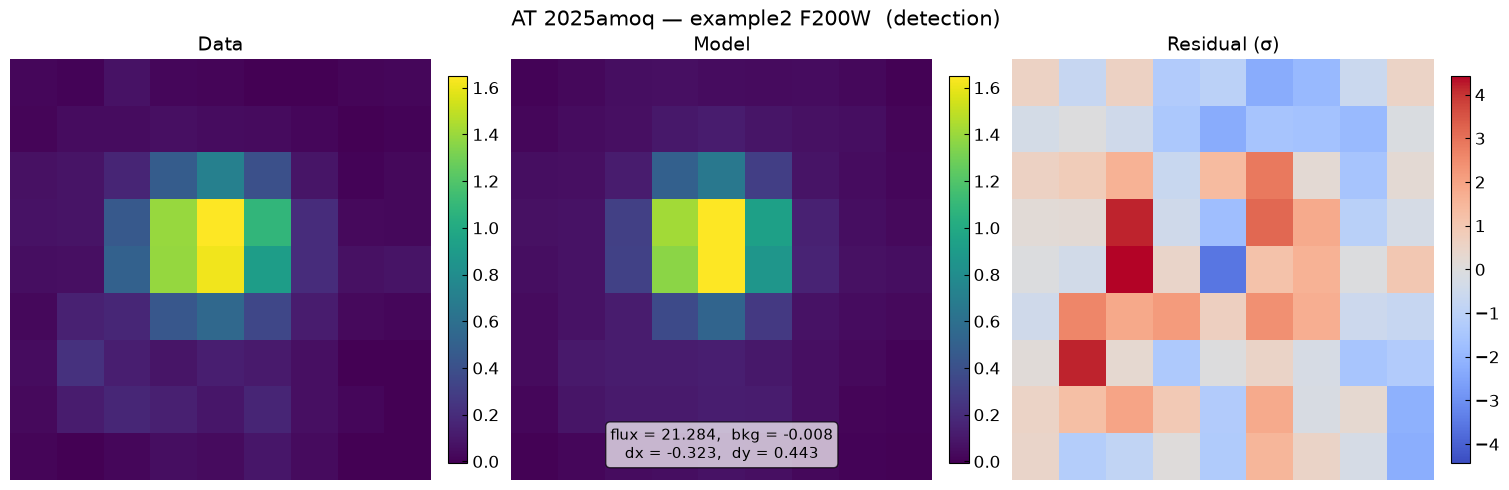
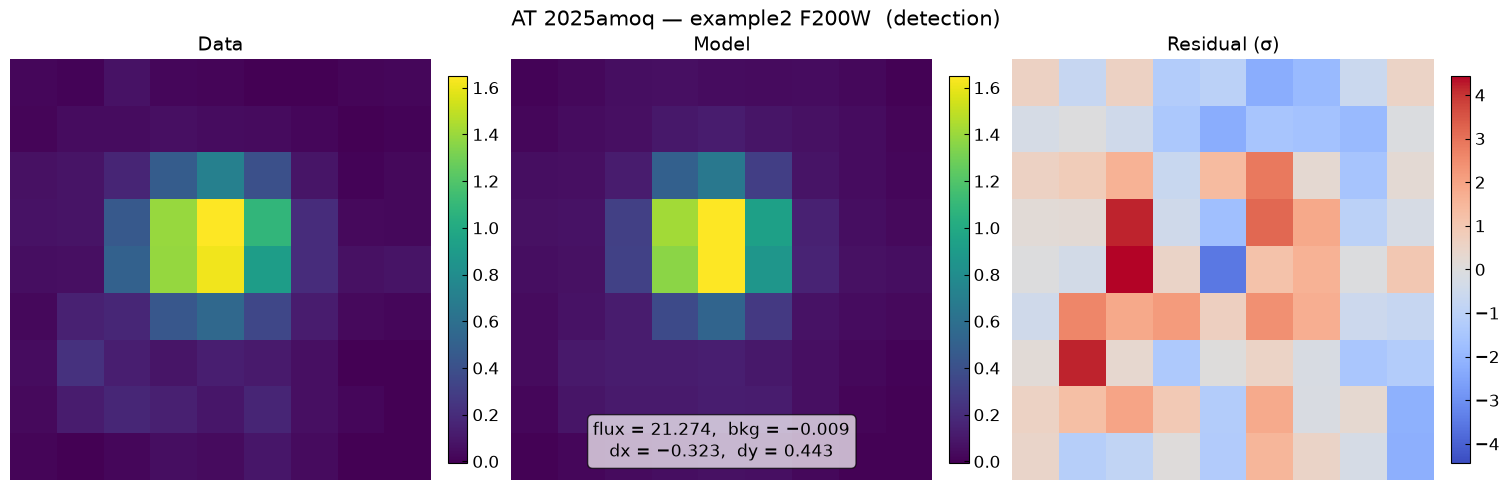
Regenerate the README triptych and upper-limit figures
Re-extract both from the freshly run notebook so they show the enlarged
annotation font, the mathtext minus signs, and the max(median,0) + 3sigma
label. The percentile and Gaussian-equivalent limits differ by ~6% in this
run, so the caption no longer claims they agree closely.

Changed region(s): [[0.3738, 0.8265, 0.5918, 0.9796]]

diff --git a/README.md b/README.md
@@ -225,8 +225,7 @@ print(f"3-sigma upper limit (max(median,0) + 3sigma): {ul_3sigma:.4f}")
 *The two-run upper-limit workflow, for the epoch where AT 2025amoq is absent.
 Broad priors (blue) confirm the source is genuinely not there; tightening the
 centroid priors to ±0.1 px (orange) narrows the posterior tail and sets the
-bound. Both 3σ conventions are drawn — they agree closely here, which is itself
-the check that the posterior is near-Gaussian.*
+bound. Both 3σ conventions are drawn; they differ by ~6 % here.*
 
 ---
 
